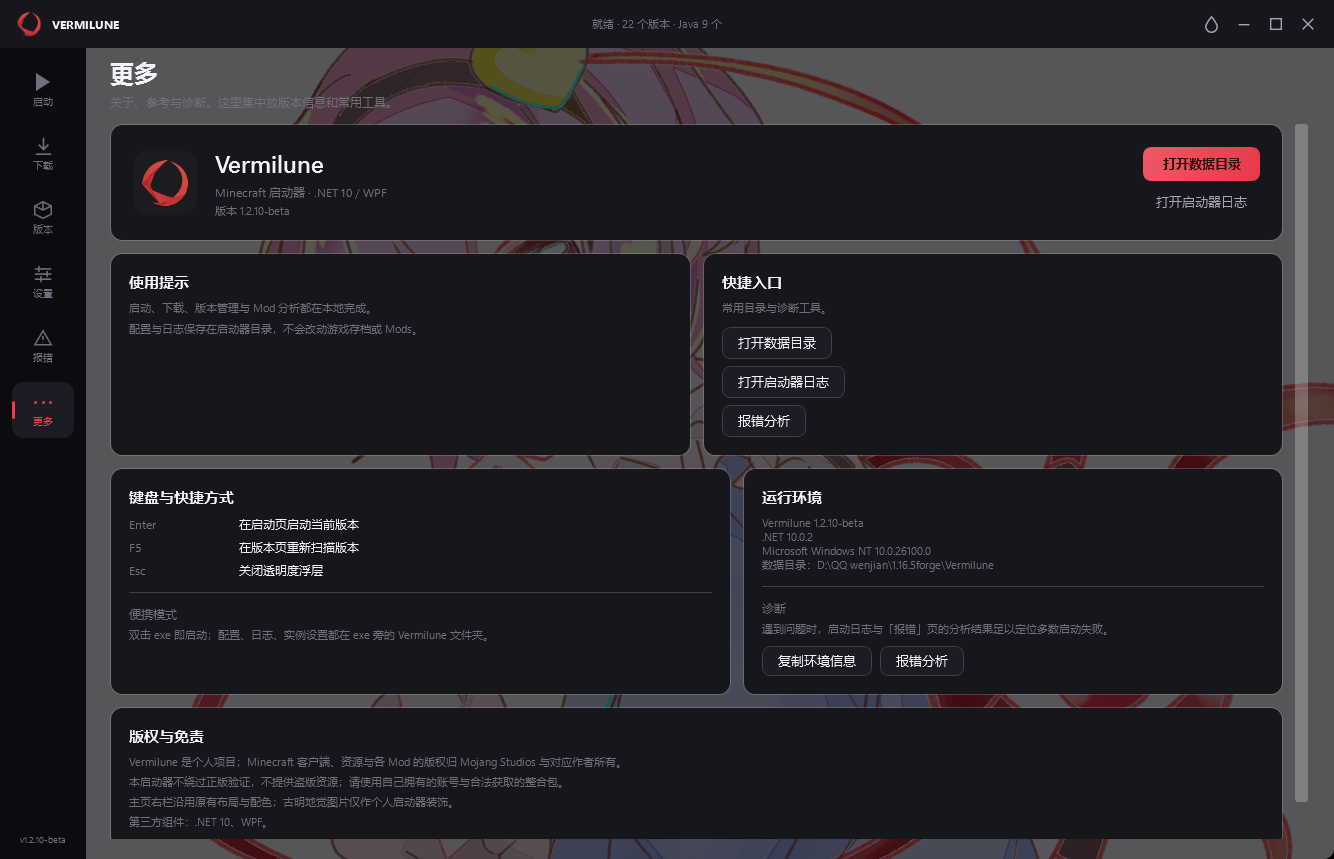
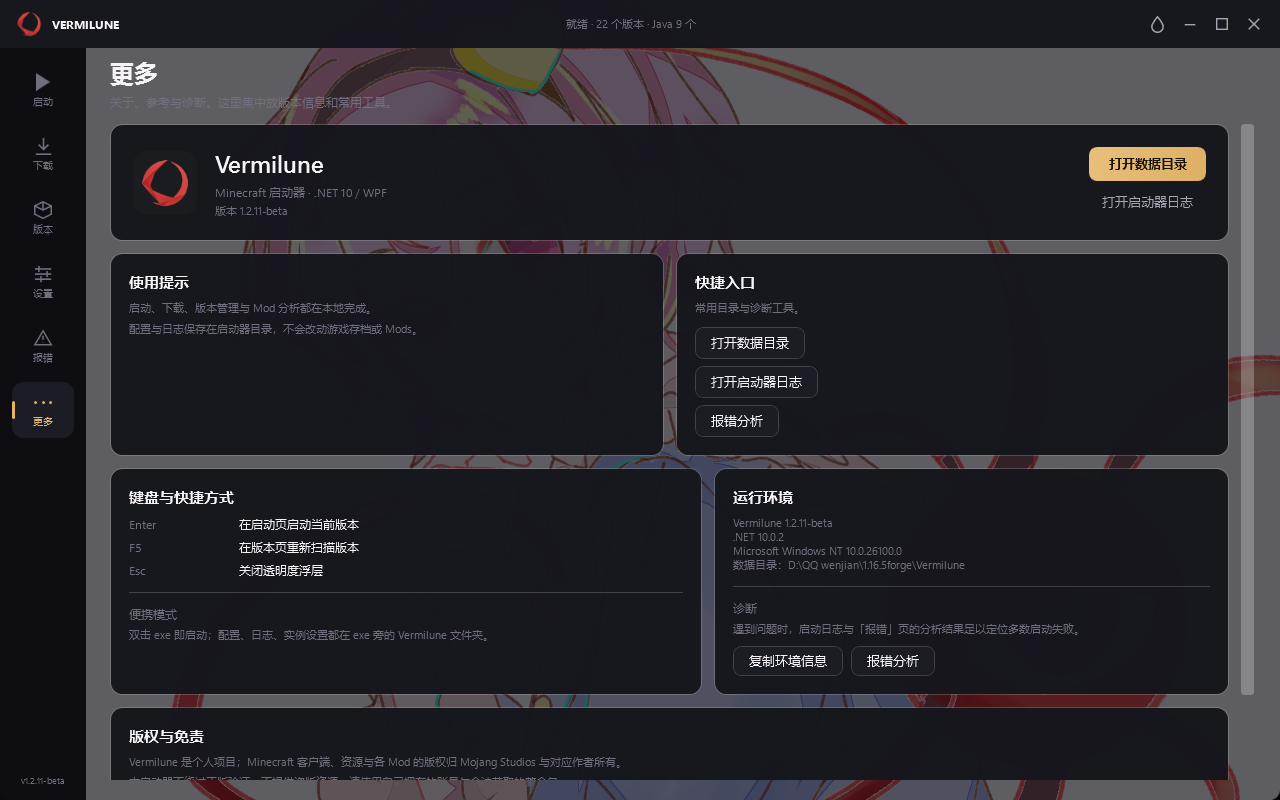
Bump to 1.2.11-beta with module conflict detection and single instance

diff --git a/UI/Pages/MorePage.xaml b/UI/Pages/MorePage.xaml
@@ -30,7 +30,7 @@
                             <TextBlock Text="Vermilune" FontFamily="{DynamicResource DisplayFont}" FontSize="24" FontWeight="SemiBold" />
                             <TextBlock Text="Minecraft 启动器 · .NET 10 / WPF" FontSize="11.5"
                                        Foreground="{DynamicResource TextMutedBrush}" Margin="0,6,0,0" />
-                            <TextBlock Text="版本 1.2.10-beta" FontSize="10.5" Foreground="{DynamicResource TextMutedBrush}" Margin="0,4,0,0" />
+                            <TextBlock Text="版本 1.2.11-beta" FontSize="10.5" Foreground="{DynamicResource TextMutedBrush}" Margin="0,4,0,0" />
                         </StackPanel>
                         <StackPanel Grid.Column="2" VerticalAlignment="Center">
                             <Button Style="{StaticResource PrimaryButton}" Height="34" Content="打开数据目录" Click="OpenData_Click" />

diff --git a/UI/Pages/SettingsPage.xaml b/UI/Pages/SettingsPage.xaml
@@ -304,7 +304,7 @@
                 <Border Style="{StaticResource Card}" Margin="0,12,0,0">
                     <StackPanel>
                         <TextBlock Text="关于 Vermilune" Style="{StaticResource SectionHeader}" />
-                        <TextBlock Text="版本 1.2.10-beta  ·  Minecraft 启动器  ·  .NET 10 / WPF"
+                        <TextBlock Text="版本 1.2.11-beta  ·  Minecraft 启动器  ·  .NET 10 / WPF"
                                    Style="{StaticResource Hint}" Margin="0,7,0,0" />
                         <TextBlock Text="启动、下载、Mod 管理与诊断功能都在本地完成。"
                                    Style="{StaticResource Hint}" Margin="0,7,0,0" />

diff --git a/UI/Pages/LaunchPage.xaml b/UI/Pages/LaunchPage.xaml
@@ -522,7 +522,7 @@
                             <ColumnDefinition Width="Auto" />
                         </Grid.ColumnDefinitions>
                         <StackPanel>
-                            <TextBlock Text="Vermilune   ·   v1.2.10-beta" FontSize="10"
+                            <TextBlock Text="Vermilune   ·   v1.2.11-beta" FontSize="10"
                                        Foreground="{DynamicResource TextMutedBrush}" />
                             <TextBlock Text="Minecraft 资源版权归 Mojang Studios 与各 Mod 作者所有" FontSize="10"
                                        Foreground="{DynamicResource TextMutedBrush}" Margin="0,4,0,0" />

diff --git a/MainWindow.xaml b/MainWindow.xaml
@@ -162,7 +162,7 @@
                             </StackPanel>
 
                             <StackPanel Grid.Row="1" Margin="0,0,0,14" HorizontalAlignment="Center">
-                                <TextBlock x:Name="RailVersion" Text="v1.2.10-beta" FontSize="9"
+                                <TextBlock x:Name="RailVersion" Text="v1.2.11-beta" FontSize="9"
                                            Foreground="{DynamicResource TextMutedBrush}" HorizontalAlignment="Center" />
                             </StackPanel>
                         </Grid>

diff --git a/UI/Controls/SkinPreview3D.xaml.cs b/UI/Controls/SkinPreview3D.xaml.cs
@@ -43,6 +43,12 @@ public partial class SkinPreview3D : UserControl
     private Point _lastMouse;
     private bool _dragging;
     private bool _built;
+    private bool _renderQueued;
+    private byte[]? _framePixels;
+    private float[]? _frameDepth;
+    private WriteableBitmap? _frameBitmap;
+    private int _frameWidth;
+    private int _frameHeight;
 
     public SkinPreview3D()
     {
@@ -53,6 +59,7 @@ public partial class SkinPreview3D : UserControl
         MouseLeave += (_, _) => { _dragging = false; Cursor = Cursors.Arrow; };
         Cursor = Cursors.SizeAll;
         SizeChanged += (_, _) => Render();
+        IsVisibleChanged += (_, _) => { if (IsVisible) Render(); };
         Loaded += (_, _) => { _built = true; Rebuild(); };
     }
 
@@ -85,7 +92,18 @@ public partial class SkinPreview3D : UserControl
         _angleY += (pos.X - _lastMouse.X) * 0.55;
         _angleX = Math.Clamp(_angleX + (pos.Y - _lastMouse.Y) * 0.45, -55, 55);
         _lastMouse = pos;
-        Render();
+        RequestRender();
+    }
+
+    private void RequestRender()
+    {
+        if (_renderQueued) return;
+        _renderQueued = true;
+        Dispatcher.BeginInvoke(System.Windows.Threading.DispatcherPriority.Render, new Action(() =>
+        {
+            _renderQueued = false;
+            Render();
+        }));
     }
 
     private void OnMouseUp(object sender, MouseButtonEventArgs e)
@@ -241,12 +259,25 @@ public partial class SkinPreview3D : UserControl
 
     private void Render()
     {
+        if (!IsVisible) return;
         var width = (int)Math.Round(ActualWidth);
         var height = (int)Math.Round(ActualHeight);
         if (width < 8 || height < 8) return;
 
-        var pixels = new byte[width * height * 4];
-        var depth = new float[width * height];
+        if (_framePixels is null || _frameWidth != width || _frameHeight != height)
+        {
+            _frameWidth = width;
+            _frameHeight = height;
+            _framePixels = new byte[width * height * 4];
+            _frameDepth = new float[width * height];
+            _frameBitmap = new WriteableBitmap(width, height, 96, 96, PixelFormats.Bgra32, null);
+        }
+        else
+        {
+            Array.Clear(_framePixels);
+        }
+        var pixels = _framePixels;
+        var depth = _frameDepth!;
         Array.Fill(depth, float.MaxValue);
         var radX = _angleX * Math.PI / 180;
         var radY = _angleY * Math.PI / 180;
@@ -355,7 +386,7 @@ public partial class SkinPreview3D : UserControl
             }
         }
 
-        var bitmap = new WriteableBitmap(width, height, 96, 96, PixelFormats.Bgra32, null);
+        var bitmap = _frameBitmap!;
         bitmap.WritePixels(new Int32Rect(0, 0, width, height), pixels, width * 4, 0);
         PreviewImage.Source = bitmap;
     }

diff --git a/Core/CrashAnalyzer.cs b/Core/CrashAnalyzer.cs
@@ -1,4 +1,4 @@
-using System.IO;
+using System.IO;
 using System.Text;
 using System.Text.RegularExpressions;
 
@@ -109,6 +109,36 @@ public static class CrashAnalyzer
             "某个 Mod 调用了不存在的类或方法，通常是 Mod 版本与游戏/加载器/前置版本不匹配。",
             "根据下方堆栈定位 Mod，更新或移除它；同时确认所有前置 Mod 与游戏版本一致。",
             @"NoSuchMethodError|NoClassDefFoundError|ClassNotFoundException|IncompatibleClassChangeError");
+
+        var moduleConflict = Regex.Match(all,
+            @"java\.lang\.module\.ResolutionException:\s*Modules?\s+([^\s]+)\s+and\s+([^\s]+)\s+export package\s+([^\s]+)\s+to module\s+([^\s]+)");
+        if (moduleConflict.Success)
+        {
+            var a = moduleConflict.Groups[1].Value;
+            var b = moduleConflict.Groups[2].Value;
+            var package = moduleConflict.Groups[3].Value;
+            var target = moduleConflict.Groups[4].Value;
+            findings.Add(new CrashFinding
+            {
+                Code = "MODULE_CONFLICT",
+                Severity = ModIssueSeverity.Critical,
+                Title = "Mod 模块冲突（重复导出包）",
+                Detail = $"模块 {a} 和 {b} 都向 {target} 导出了包 {package}，Java 模块系统拒绝启动。\n" +
+                         "这通常出现在 Forge 上使用 Sinytra Connector 加载 Fabric 渲染 Mod 时。",
+                Suggestion = "先在 mods 文件夹里搜索并移除与 " + target + " 对应的 Mod（常见是 Sodium Extras / Embeddium Extras）。\n" +
+                             "只保留 Sodium 或 Embeddium 其中一个；如果仍然报错，更新或移除 Sinytra Connector 以及依赖它的 Fabric Mod。",
+                Evidence = $"模块 {a} / {b} 重复导出 {package}；目标模块：{target}"
+            });
+        }
+        else
+        {
+            AddPattern(findings, all, "MODULE_CONFLICT", ModIssueSeverity.Critical,
+                @"java\.lang\.module\.ResolutionException|export package .* to module",
+                "Mod 模块冲突",
+                "多个 Mod / 加载器模块同时导出了同一个 Java 包，模块系统拒绝启动。",
+                "优先移除最近安装的渲染类 Mod；Forge + Sinytra Connector 环境下先检查 Sodium Extras、Embeddium、Sodium 是否混装。",
+                @"java\.lang\.module\.ResolutionException|export package .* to module");
+        }
 
         AddPattern(findings, all, "GRAPHICS", ModIssueSeverity.Warning,
             @"GLFW error|Failed to create window|Pixel format not accelerated|The driver does not appear to support OpenGL|EXCEPTION_ACCESS_VIOLATION|nvoglv|atio6axx|ig\d+icd|OpenGL (?:error|failed|context)",

diff --git a/App.xaml.cs b/App.xaml.cs
@@ -1,3 +1,6 @@
+using System.Diagnostics;
+using System.Runtime.InteropServices;
+using System.Threading;
 using System.Windows;
 using System.Windows.Threading;
 using Vermilune.Core;
@@ -8,9 +11,23 @@ namespace Vermilune;
 public partial class App : Application
 {
     public static MainWindow? Window { get; private set; }
+    private static Mutex? _instanceMutex;
+
+    [DllImport("user32.dll")]
+    private static extern bool SetForegroundWindow(IntPtr hWnd);
+    [DllImport("user32.dll")]
+    private static extern bool ShowWindow(IntPtr hWnd, int nCmdShow);
 
     protected override async void OnStartup(StartupEventArgs e)
     {
+        _instanceMutex = new Mutex(true, @"Local\Vermilune.Launcher", out var createdNew);
+        if (!createdNew)
+        {
+            ActivateExistingLauncher();
+            Shutdown(0);
+            return;
+        }
+
         base.OnStartup(e);
         DispatcherUnhandledException += OnDispatcherUnhandledException;
         AppDomain.CurrentDomain.UnhandledException += (_, args) =>
@@ -62,9 +79,30 @@ public partial class App : Application
         e.Handled = true;
     }
 
+    private static void ActivateExistingLauncher()
+    {
+        try
+        {
+            for (var attempt = 0; attempt < 20; attempt++)
+            {
+                var process = Process.GetProcessesByName("Vermilune")
+                    .FirstOrDefault(p => p.Id != Environment.ProcessId && p.MainWindowHandle != IntPtr.Zero);
+                if (process is not null)
+                {
+                    ShowWindow(process.MainWindowHandle, 9);
+                    SetForegroundWindow(process.MainWindowHandle);
+                    return;
+                }
+                Thread.Sleep(100);
+            }
+        }
+        catch { }
+    }
+
     protected override void OnExit(ExitEventArgs e)
     {
-        try { LauncherApp.I.Save(); } catch { }
+        try { _instanceMutex?.ReleaseMutex(); _instanceMutex?.Dispose(); } catch { }
+        try { if (LauncherApp.I.Initialized) LauncherApp.I.Save(); } catch { }
         Log.Info("Vermilune 退出");
         Log.Shutdown();
         base.OnExit(e);

diff --git a/MainWindow.xaml.cs b/MainWindow.xaml.cs
@@ -62,7 +62,7 @@ public partial class MainWindow : Window
         BgOpacitySlider.Value = s.BackgroundImageOpacity * 100;
         _updatingSliders = false;
         OpacityValue.Text = $"{s.UiOpacity * 100:0}%";
-        RailVersion.Text = "v1.2.10-beta";
+        RailVersion.Text = "v1.2.11-beta";
 
         LauncherApp.I.SettingsChanged += OnSettingsChanged;
         LauncherApp.I.VersionsChanged += OnVersionsChanged;

diff --git a/UI/Pages/MorePage.xaml.cs b/UI/Pages/MorePage.xaml.cs
@@ -21,7 +21,7 @@ public partial class MorePage : UserControl, IPage
     {
         try
         {
-            EnvText.Text = $"Vermilune 1.2.10-beta\n.NET {Environment.Version}\n{Environment.OSVersion}\n数据目录：{AppPaths.DataDir}";
+            EnvText.Text = $"Vermilune 1.2.11-beta\n.NET {Environment.Version}\n{Environment.OSVersion}\n数据目录：{AppPaths.DataDir}";
         }
         catch { }
     }

diff --git a/Core/VersionModels.cs b/Core/VersionModels.cs
@@ -169,7 +169,7 @@ public sealed class LaunchOptions
     public string ExtraJvmArgs { get; init; } = "";
     public string ExtraGameArgs { get; init; } = "";
     public string LauncherName { get; init; } = "Vermilune";
-    public string LauncherVersion { get; init; } = "1.2.10-beta";
+    public string LauncherVersion { get; init; } = "1.2.11-beta";
 }
 
 public static class RuleEvaluator

diff --git a/UI/Pages/LaunchPage.xaml.cs b/UI/Pages/LaunchPage.xaml.cs
@@ -523,7 +523,7 @@ public partial class LaunchPage : UserControl, IPage, INotifyPropertyChanged
             ExtraJvmArgs = instance.JvmArgs,
             ExtraGameArgs = instance.GameArgs,
             LauncherName = "Vermilune",
-            LauncherVersion = "1.2.10-beta"
+            LauncherVersion = "1.2.11-beta"
         };
 
         _cts?.Dispose();

diff --git a/RELEASE_NOTES-v1.2.11-beta.md b/RELEASE_NOTES-v1.2.11-beta.md
@@ -1,0 +1,6 @@
+# Vermilune v1.2.11-beta
+
+- 报错分析新增 Mod 模块冲突识别（ResolutionException / 重复导出包）
+- 启动器改为单实例：重复打开只激活已有窗口
+- 优化 3D 皮肤与披风预览，拖动更顺、减少内存分配
+- 保留第三方登录、多角色、CurseForge 版本分页等修复
